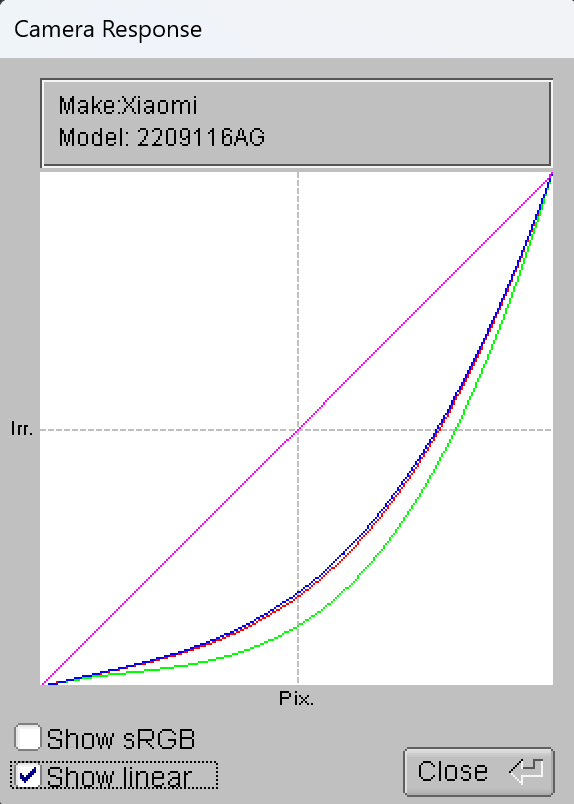
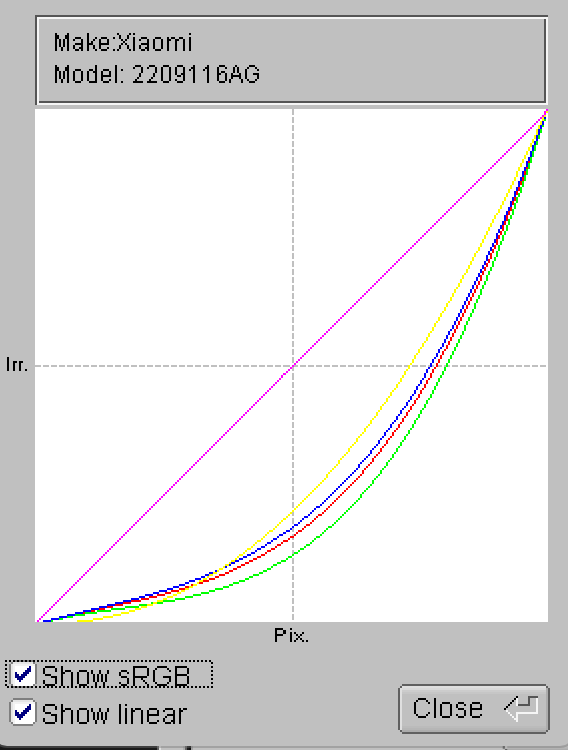
bitti diyelim

diff --git a/src/response_function.py b/src/response_function.py
@@ -8,8 +8,8 @@ EPSILON_M = 0.02
 
 class Radiance_Map:
     def __init__(rm,Image, R_est_list):
-        rm.R_est_list_orig = R_est_list.copy() # check len of R_est_list
-        rm.R_est_list = R_est_list.copy() # check len of R_est_list
+        rm.R_est_list_orig = R_est_list.copy() # check len of R_est_list -> gerek kalmadı buna numpya geçince
+        rm.R_est_list = R_est_list.copy() # check len of R_est_list -> bunlar hala kullanılıyor mu
         rm.R_est_list_prev = None
         rm.degree = 0
         rm.coeff = []
@@ -20,41 +20,37 @@ class Radiance_Map:
         rm.P = rm.M.shape[1]
         rm.final_degree = 1
         rm.M_n = np.stack([rm.M ** n for n in range(LIMIT_F + 1)],axis=0)
-        pair_counts = ((rm.M[:-1] > EPSILON_M) & (rm.M[:-1] < 1 - EPSILON_M) &
-                       (rm.M[1:] > EPSILON_M) & (rm.M[1:] < 1 - EPSILON_M)).sum(axis=1)
-        print(f"Valid pixeller: {pair_counts} / images:{rm.Q,} / pixels: {rm.P}")
 
-
-
-    def derivation_coeff(rm, n):
-
-        R = np.asarray(rm.R_est_list)
-
-        A = rm.M_n[1:rm.degree + 1, :-1, :] - (
-                R[None, :, None] * rm.M_n[1:rm.degree + 1, 1:, :]
-        )
-
-        A_diff = A - A[rm.degree - 1, :, :][None, :, :]
-
-        valid_pairs = (
-                (rm.M[:-1, :] > EPSILON_M) &
-                (rm.M[:-1, :] < 1 - EPSILON_M) &
-                (rm.M[1:, :] > EPSILON_M) &
-                (rm.M[1:, :] < 1 - EPSILON_M)
-        )
-
-        L_n = np.sum(
-            A_diff[:rm.degree - 1] *
-            A_diff[n][None, :, :] *
-            valid_pairs[None, :, :],
-            axis=(1, 2)
-        )
-
-        R_n = -rm.I_max * np.sum(
-            A_diff[n] * A[rm.degree - 1] * valid_pairs
-        )
-
-        return L_n, R_n
+    # numpya geçince birleştirince daha hızlı oldu
+    # def derivation_coeff(rm, n):
+    #
+    #     R = np.asarray(rm.R_est_list)
+    #
+    #     A = rm.M_n[1:rm.degree + 1, :-1, :] - (
+    #             R[None, :, None] * rm.M_n[1:rm.degree + 1, 1:, :]
+    #     )
+    #
+    #     A_diff = A - A[rm.degree - 1, :, :][None, :, :]
+    #
+    #     valid_pairs = (
+    #             (rm.M[:-1, :] > EPSILON_M) &
+    #             (rm.M[:-1, :] < 1 - EPSILON_M) &
+    #             (rm.M[1:, :] > EPSILON_M) &
+    #             (rm.M[1:, :] < 1 - EPSILON_M)
+    #     )
+    #
+    #     L_n = np.sum(
+    #         A_diff[:rm.degree - 1] *
+    #         A_diff[n][None, :, :] *
+    #         valid_pairs[None, :, :],
+    #         axis=(1, 2)
+    #     )
+    #
+    #     R_n = -rm.I_max * np.sum(
+    #         A_diff[n] * A[rm.degree - 1] * valid_pairs
+    #     )
+    #
+    #     return L_n, R_n
 
 
     def update_coeff(rm):
@@ -65,10 +61,9 @@ class Radiance_Map:
             rm.coeff = [0.0, rm.I_max]
             return
 
-        A = rm.M_n[1:rm.degree + 1, :-1, :] - (
-                R[None, :, None] * rm.M_n[1:rm.degree + 1, 1:, :]
-        )
-
+        A1 = rm.M_n[1:rm.degree + 1, :-1, :]
+        A2 =  - (R[None, :, None] * rm.M_n[1:rm.degree + 1, 1:, :])
+        A = A1 - A2
         A_diff = A[:-1] - A[-1][None, :, :]
 
         valid_pairs = (
@@ -106,13 +101,13 @@ class Radiance_Map:
             axis=0
         )
 
-        valid_pixels = (
+        valids = (
                 (rm.M > EPSILON_M) &
                 (rm.M < 1 - EPSILON_M)
         )
 
         for q in range(rm.Q - 1):
-            valid = valid_pixels[q] & valid_pixels[q + 1]
+            valid = valids[q] & valids[q + 1]
 
             if not np.any(valid):
                 print(f"Warning: no valid pixel pairs for exposure pair {q}, keeping R = {rm.R_est_list[q]}")
@@ -233,11 +228,8 @@ class Radiance_Map:
         plt.figure(figsize=(8, 5))
         plt.plot(x, y, label=f"Response Function (degree {rm.final_degree})")
 
-        y_srgb = np.where(
-            x <= 0.04045,
-            x / 12.92,
-            ((x + 0.055) / 1.055) ** 2.4
-        )
+        y_srgb = np.where( x <= 0.04045, x / 12.92,((x + 0.055) / 1.055) ** 2.4)
+
 
         plt.plot(x, y_srgb, label="sRGB", color="orange")
         plt.plot(x, x, "--", label="Linear ", color="gray")
